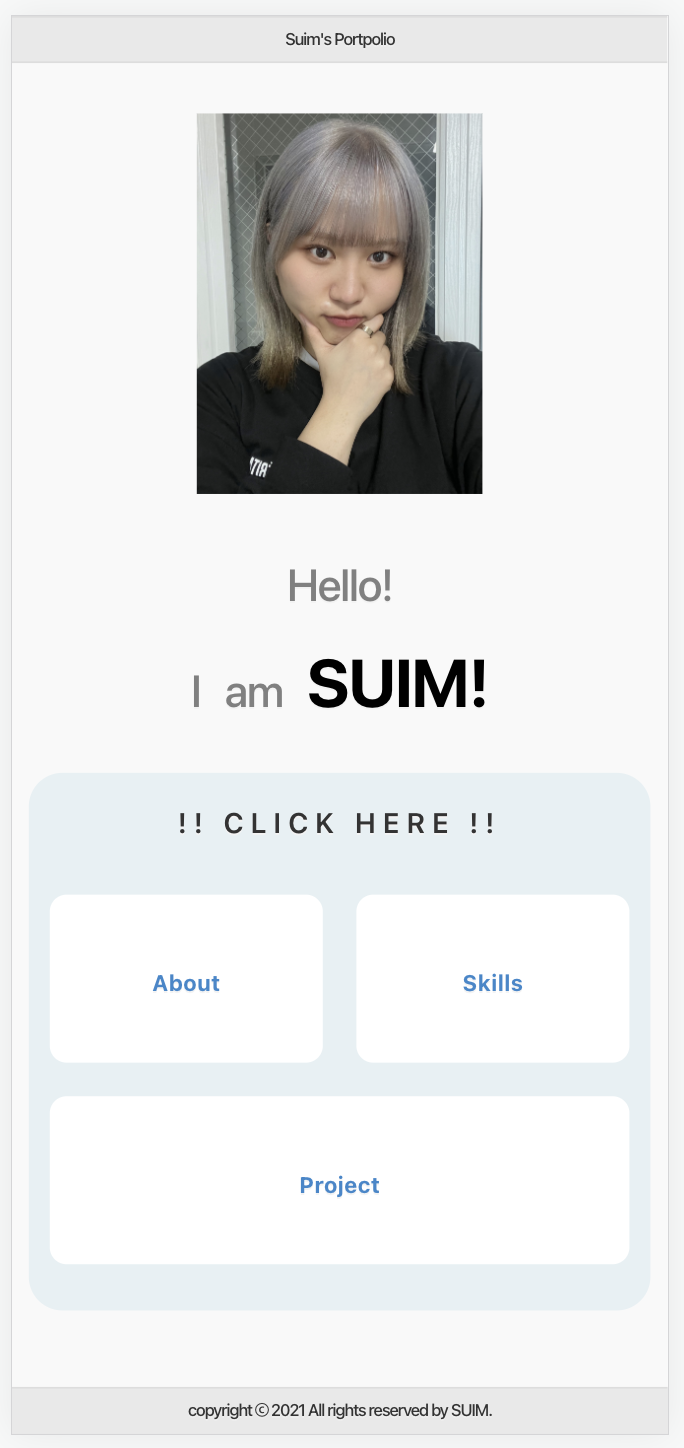
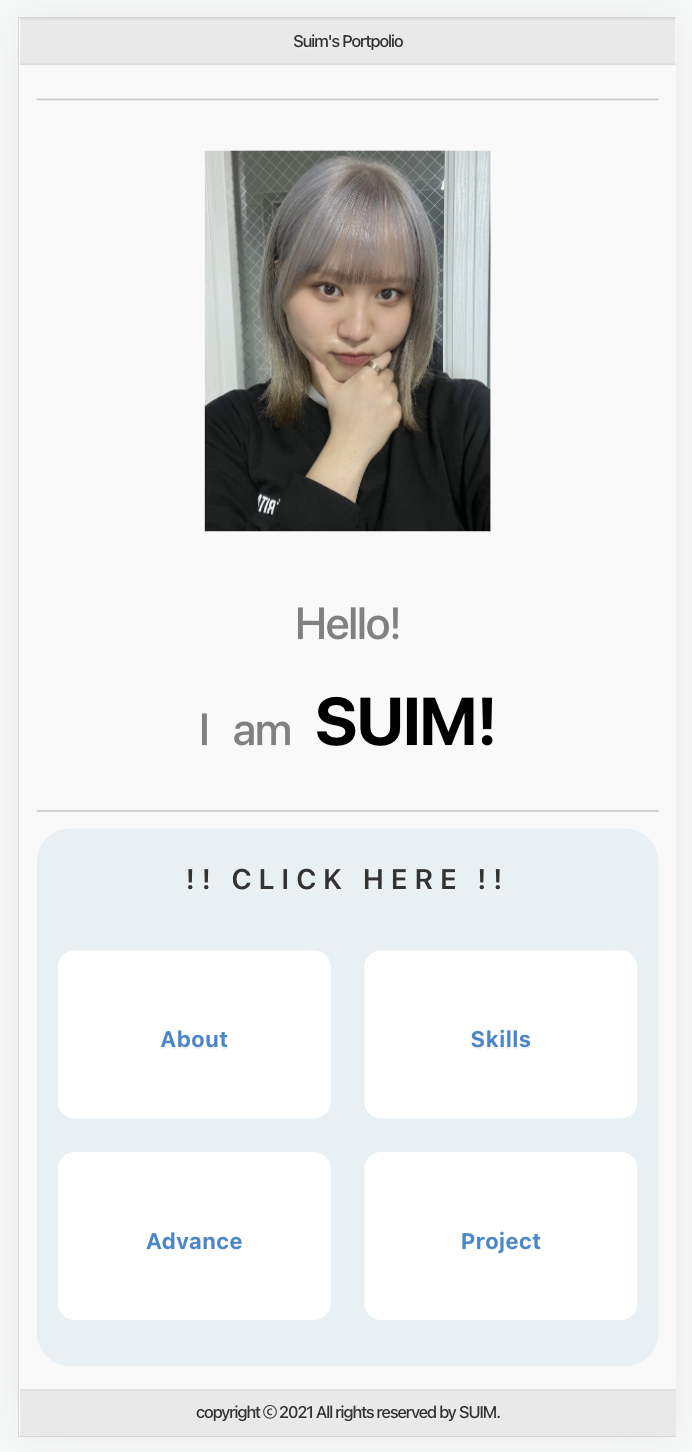
md 파일 수정

diff --git a/README.md b/README.md
@@ -6,7 +6,7 @@
 
 ## 📷 Preview
 <p align="center">
-  <img src="./img/p_main.png" width="20%"> <img src="./img/p_about.png" width="20%"> <img src="./img/p_skills.png" width="20%" > <img src="./img/p_project.png" width="20%">
+  <img src="./img/p_main.png" width="17%"> <img src="./img/p_about.png" width="17%"> <img src="./img/p_skills.png" width="17%" > <img src="./img/p_advance.png" width="17%"> <img src="./img/p_project.png" width="17%">
 </p>
 
 <br>
@@ -18,7 +18,8 @@
   
   1. About: 자기소개와 신상정보를 넣었습니다.<br>
   2. Skills: 제가 사용할 수 있는 언어목록입니다.<br>
-  3. Project: 제가 그동안 진행 / 완료한 프로젝트 목록입니다.
+  3. Advance: 저의 성적 향상 그래프입니다.<br>
+  4. Project: 제가 그동안 진행 / 완료한 프로젝트 목록입니다.
 
 </p>
 
@@ -31,6 +32,7 @@
   + **/img**: 웹 페이지와 md 파일에 사용된 이미지 파일이 들어있습니다.
   + **/css**: 웹 페이지에 사용된 css 파일이 들어있습니다.
   + **/js**: 웹 페이지에 사용된 js 파일이 들어있습니다.
+  + **/chart**: 차트를 생성한 html 파일이 들어있습니다. (용도는 아래서 설명)
 </p>
 
 <br>
@@ -40,8 +42,8 @@
 |    HTML    |     CSS    |   vscode   | 
 | :--------: | :--------: | :--------: | 
 
-| Bootstrap5 |  Bulma | Milligram |  Pure  |
-| :--------: | :----: | :-------: | :----: |
+| Bootstrap5 |  Bulma | Milligram |  Pure  |  Apache ECharts  |
+| :--------: | :----: | :-------: | :----: | :--------------: |
 
 <br>
 
@@ -100,6 +102,15 @@
 ### 👉🏻 Milligram
 <p align="justify">
   모든 화면의 HOME 버튼을 밀리그램 버튼 속성을 적용하였습니다.
+</p>
+<br>
+
+### 👉🏻 Apache ECharts
+<p align="justify">
+  <img src="./img/p_chart.png" width="40%"> <img src="./img/p_advance.png" width="40%">
+  
+  About 메뉴의 MBTI 카테고리와 Advance 메뉴의 차트에 사용하였습니다.
+  화면에 직접 넣고 싶었으나 적용되지 않는 오류로 인해 iframe 안에 html 파일을 넣어서 화면에 보이도록 처리했습니다. 추후에 수정할 부분 중 하나입니다.
 </p>
 <br>
 
